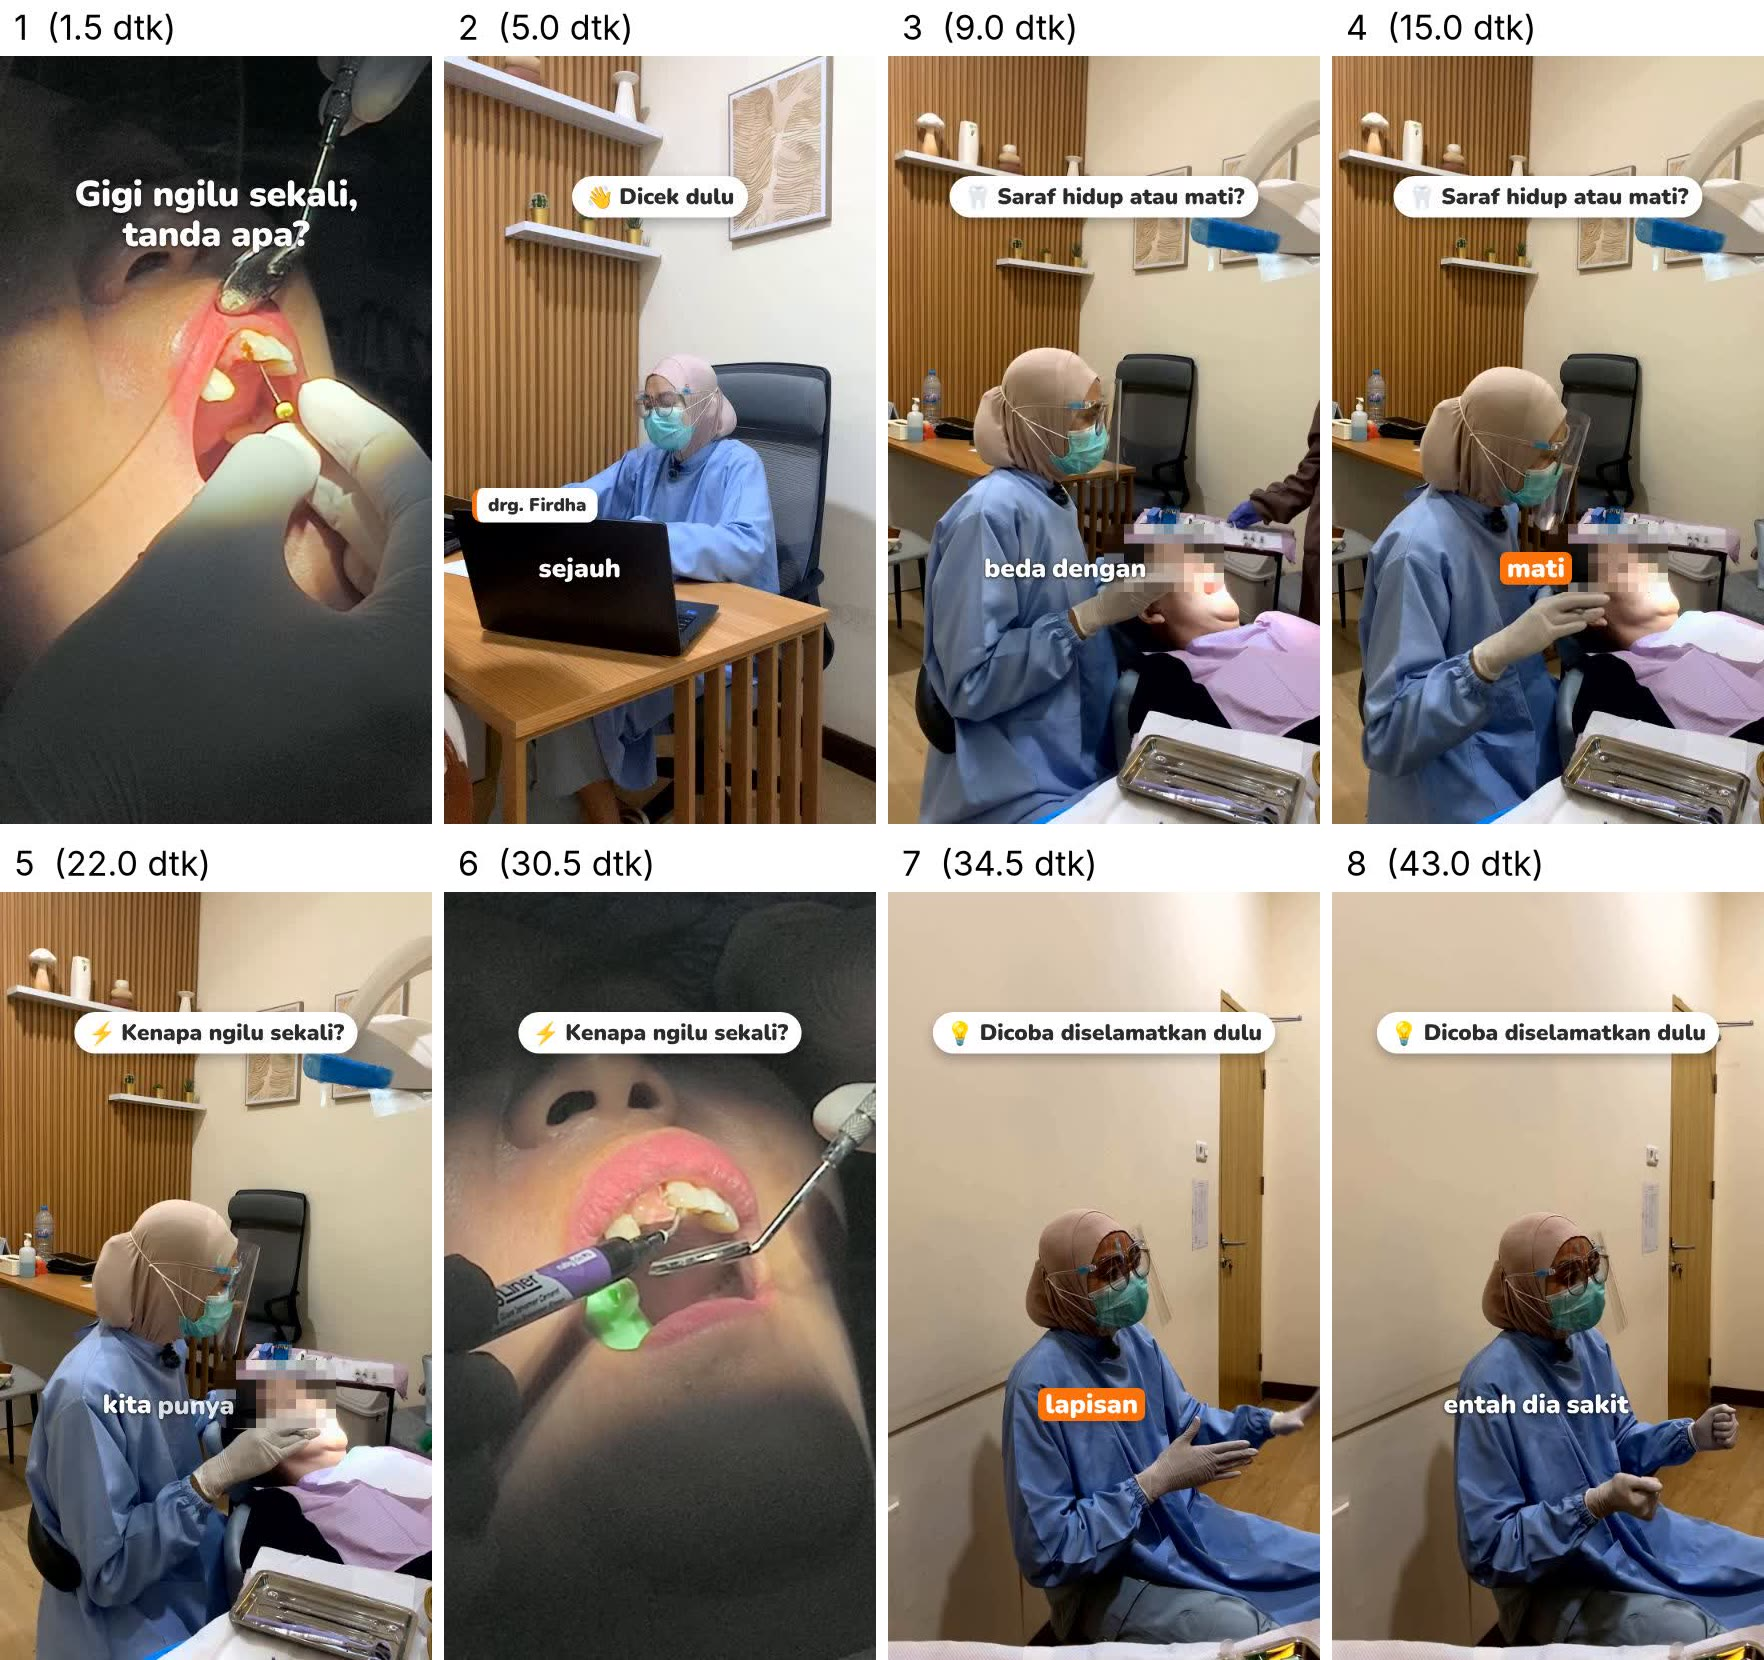
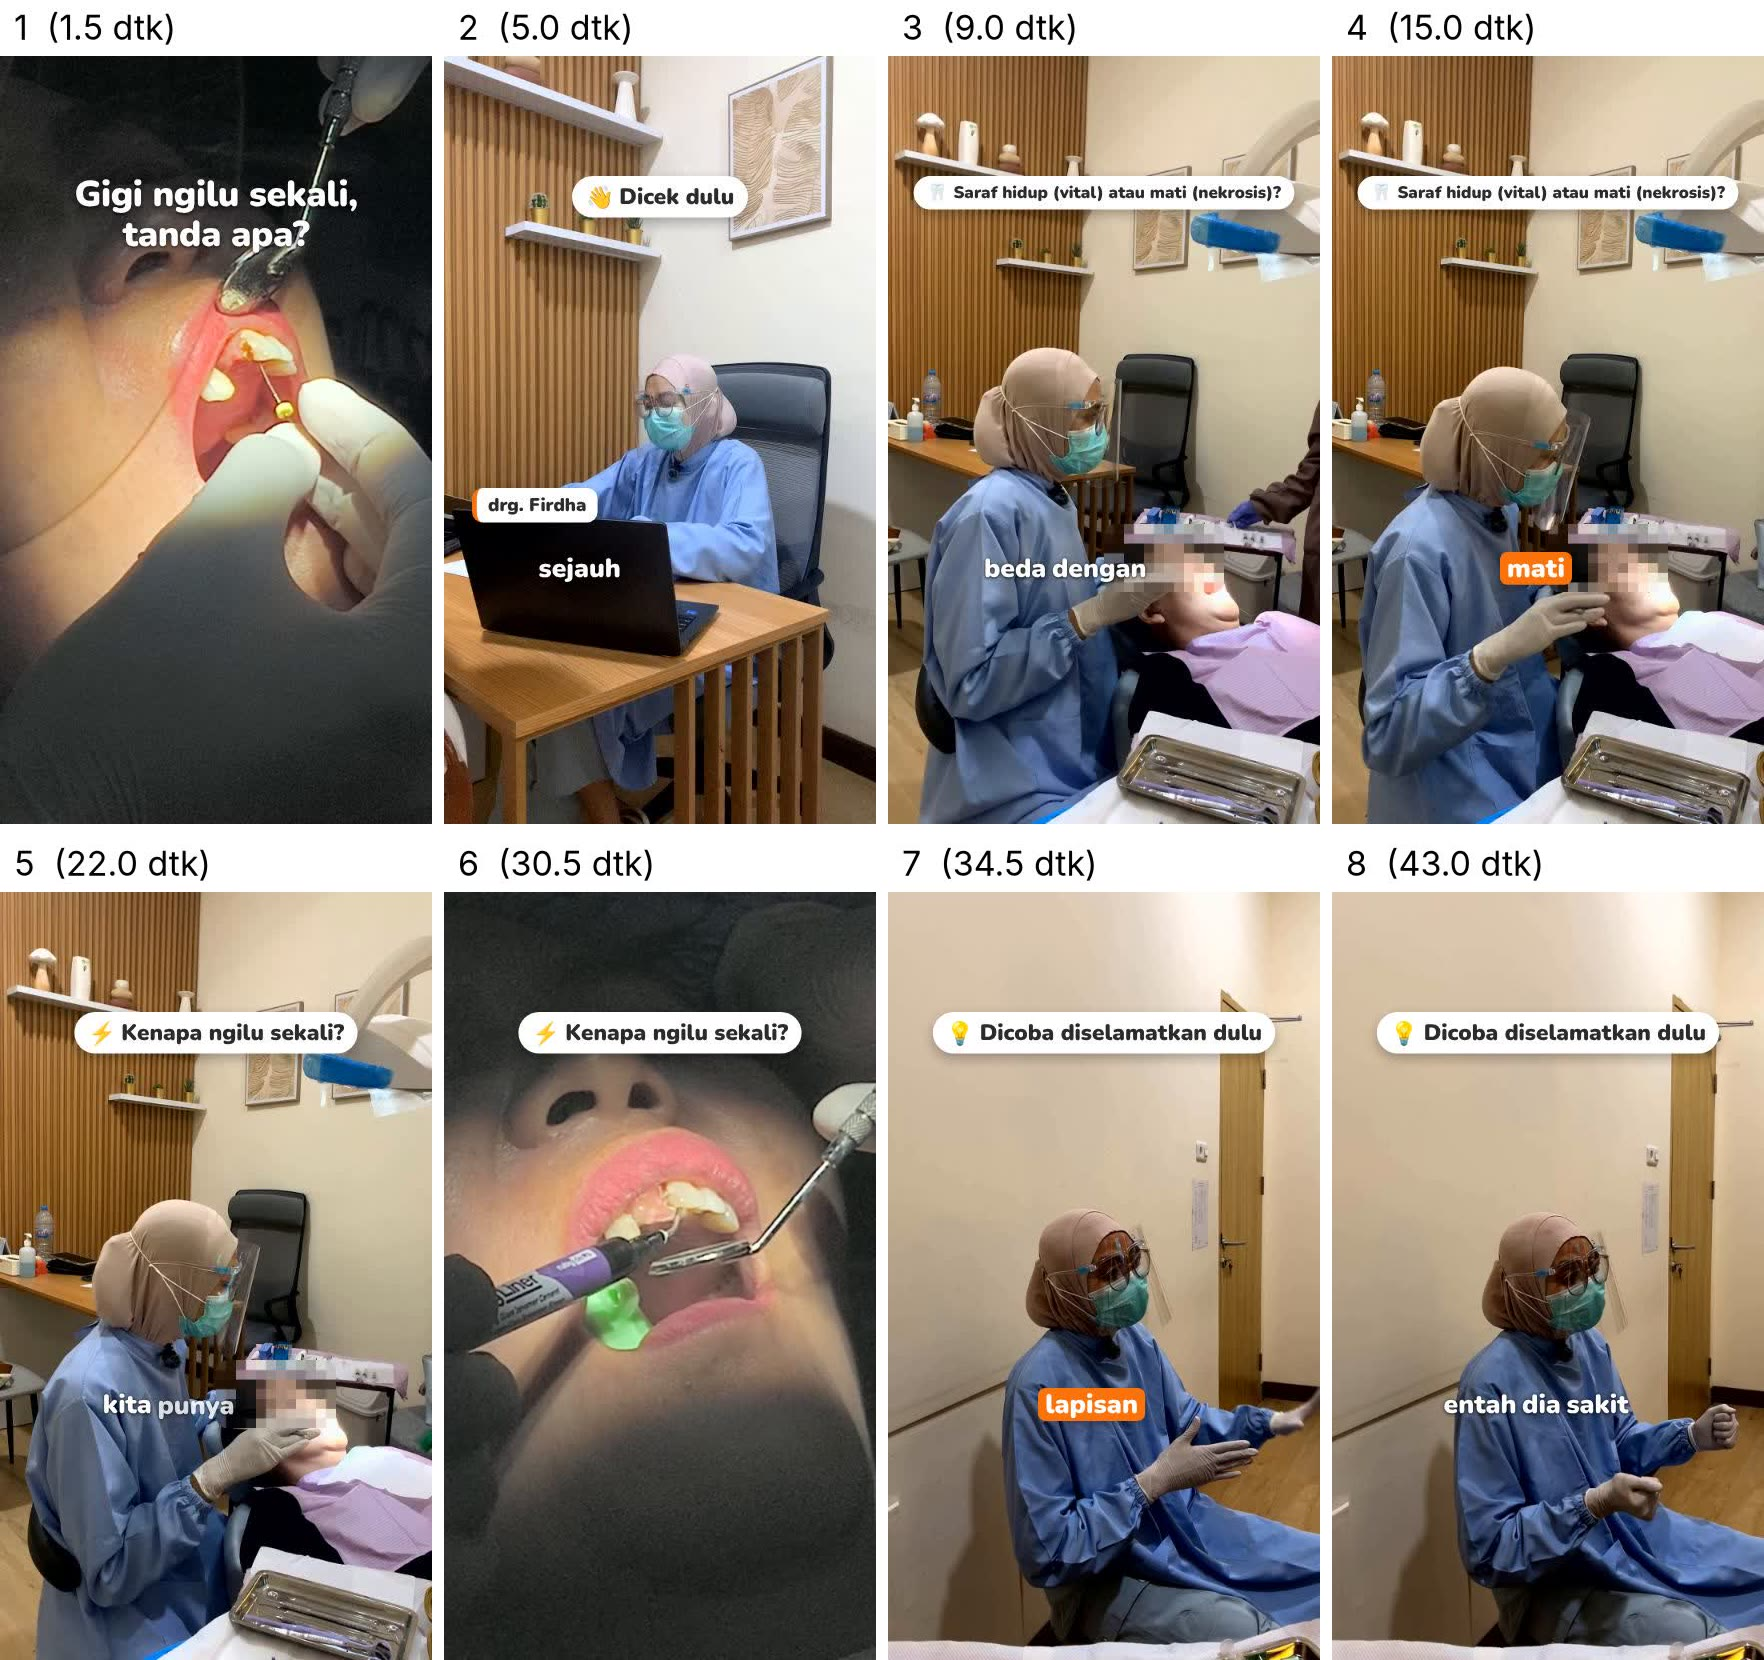
Firdha: label pill 'Saraf hidup (vital) atau mati (nekrosis)?' (koreksi Dir), papan V1
Claude-Session: https://claude.ai/code/session_016b8dWFV4j8YH2mAWRFcYJE

Changed region(s): [[0.4989, 0.0922, 0.9977, 0.1536]]

diff --git a/upg-video-projects/firdha-ngilu-sekali/src/timeline.js b/upg-video-projects/firdha-ngilu-sekali/src/timeline.js
@@ -1,7 +1,7 @@
 // DIBUAT OTOMATIS oleh edukasi/scripts/build_timeline.py dari edit.json — jangan diedit manual.
 export const CUTS = [{"clip": "VID_20261126_140712", "in": 1.0, "dur": 3.0, "start": 0.0, "fx": 540, "fy": 700, "tx": 540, "ty": 780, "scale": 1.0, "flash": false, "blur": [], "vol": 0.25}, {"clip": "IMG_1389", "in": 6.4, "dur": 5.32, "start": 3.0, "fx": 540, "fy": 700, "tx": 540, "ty": 780, "scale": 1.0, "flash": false, "blur": [], "vol": 1.0}, {"clip": "IMG_1401", "in": 3.2, "dur": 9.75, "start": 8.32, "fx": 540, "fy": 700, "tx": 540, "ty": 780, "scale": 1.0, "flash": false, "blur": [], "vol": 1.0}, {"clip": "IMG_1401", "in": 12.95, "dur": 10.29, "start": 18.07, "fx": 540, "fy": 700, "tx": 540, "ty": 780, "scale": 1.0, "flash": false, "blur": [], "vol": 1.0}, {"clip": "VID_20261126_150412", "in": 3.0, "dur": 3.0, "start": 28.36, "fx": 540, "fy": 700, "tx": 540, "ty": 780, "scale": 1.0, "flash": false, "blur": [], "vol": 0.25}, {"clip": "IMG_9882", "in": 17.48, "dur": 5.44, "start": 31.36, "fx": 540, "fy": 700, "tx": 540, "ty": 780, "scale": 1.0, "flash": false, "blur": [], "vol": 1.0}, {"clip": "IMG_9882", "in": 22.92, "dur": 10.62, "start": 36.8, "fx": 540, "fy": 700, "tx": 540, "ty": 780, "scale": 1.0, "flash": false, "blur": [], "vol": 1.0}];
 export const CAPTIONS = [{"from": 3.1, "to": 4.46, "words": [{"text": "bagaimana", "at": 3.1}, {"text": "ada", "at": 4.3}]}, {"from": 4.46, "to": 4.88, "words": [{"text": "keluhan", "at": 4.46, "hl": true}]}, {"from": 4.88, "to": 5.54, "words": [{"text": "sejauh", "at": 4.88}, {"text": "ini", "at": 5.2}, {"text": "dengan", "at": 5.28}]}, {"from": 5.54, "to": 6.42, "words": [{"text": "giginya", "at": 5.54}]}, {"from": 6.42, "to": 8.65, "words": [{"text": "yang", "at": 6.42}, {"text": "sudah", "at": 7.48}, {"text": "dirawat?", "at": 7.74}]}, {"from": 8.44, "to": 9.46, "words": [{"text": "beda", "at": 8.44}, {"text": "dengan", "at": 8.68}, {"text": "gigi", "at": 9.14}]}, {"from": 9.46, "to": 10.2, "words": [{"text": "sebelahnya", "at": 9.46}]}, {"from": 10.2, "to": 11.4, "words": [{"text": "ada", "at": 10.2}, {"text": "yang", "at": 10.36}, {"text": "masih", "at": 10.46}]}, {"from": 11.4, "to": 12.08, "words": [{"text": "aktif", "at": 11.4, "hl": true}]}, {"from": 12.08, "to": 12.74, "words": [{"text": "sarafnya", "at": 12.08}]}, {"from": 12.74, "to": 13.3, "words": [{"text": "ada", "at": 12.74}, {"text": "yang", "at": 12.92}, {"text": "memang", "at": 13.08}]}, {"from": 13.3, "to": 13.7, "words": [{"text": "sudah", "at": 13.3}]}, {"from": 13.7, "to": 14.28, "words": [{"text": "nekrosis", "at": 13.7, "hl": true}]}, {"from": 14.28, "to": 14.44, "words": [{"text": "atau", "at": 14.28}]}, {"from": 14.44, "to": 15.42, "words": [{"text": "mati", "at": 14.44, "hl": true}]}, {"from": 15.42, "to": 16.4, "words": [{"text": "jadi", "at": 15.42}, {"text": "kalau", "at": 15.56}, {"text": "sakitnya", "at": 16.0}]}, {"from": 16.4, "to": 16.94, "words": [{"text": "ada", "at": 16.4}, {"text": "kita", "at": 16.52}, {"text": "rasa", "at": 16.74}]}, {"from": 16.94, "to": 18.37, "words": [{"text": "tapi", "at": 16.94}, {"text": "sedikit-sedikit", "at": 17.26}]}, {"from": 18.2, "to": 19.0, "words": [{"text": "nah", "at": 18.2}, {"text": "kalau", "at": 18.28}, {"text": "ini", "at": 18.48}]}, {"from": 19.0, "to": 20.0, "words": [{"text": "hampir", "at": 19.0}, {"text": "secara", "at": 19.66}]}, {"from": 20.0, "to": 21.4, "words": [{"text": "keseluruhan", "at": 20.0}, {"text": "masih", "at": 20.56}]}, {"from": 21.4, "to": 21.68, "words": [{"text": "vital", "at": 21.4, "hl": true}]}, {"from": 21.68, "to": 23.64, "words": [{"text": "kita", "at": 21.68}, {"text": "punya", "at": 21.96}, {"text": "saraf", "at": 22.52}]}, {"from": 23.64, "to": 23.7, "words": [{"text": "jadi", "at": 23.64}]}, {"from": 23.7, "to": 24.16, "words": [{"text": "ngilu", "at": 23.7, "hl": true}]}, {"from": 24.16, "to": 24.56, "words": [{"text": "sekali", "at": 24.16}]}, {"from": 24.56, "to": 24.58, "words": [{"text": "nah", "at": 24.56}]}, {"from": 24.58, "to": 24.72, "words": [{"text": "kalau", "at": 24.58}]}, {"from": 24.72, "to": 24.98, "words": [{"text": "ngilu", "at": 24.72, "hl": true}]}, {"from": 24.98, "to": 25.12, "words": [{"text": "sekali", "at": 24.98}]}, {"from": 25.12, "to": 26.14, "words": [{"text": "itu", "at": 25.12}, {"text": "tandanya", "at": 25.3}, {"text": "dia", "at": 25.6}]}, {"from": 26.14, "to": 26.6, "words": [{"text": "mendekati", "at": 26.14}]}, {"from": 26.6, "to": 28.27, "words": [{"text": "saluran", "at": 26.6, "hl": true}, {"text": "akar", "at": 27.22, "hl": true}]}, {"from": 31.5, "to": 32.46, "words": [{"text": "cuman", "at": 31.5}, {"text": "itu", "at": 32.02}, {"text": "tetap", "at": 32.22}]}, {"from": 32.46, "to": 33.36, "words": [{"text": "saya", "at": 32.46}, {"text": "bersihkan", "at": 32.68}]}, {"from": 33.36, "to": 33.96, "words": [{"text": "dan", "at": 33.36}, {"text": "tetap", "at": 33.56}, {"text": "bisa", "at": 33.78}]}, {"from": 33.96, "to": 34.24, "words": [{"text": "saya", "at": 33.96}, {"text": "kasih", "at": 34.1}]}, {"from": 34.24, "to": 34.76, "words": [{"text": "lapisan", "at": 34.24, "hl": true}]}, {"from": 34.76, "to": 35.32, "words": [{"text": "supaya", "at": 34.76}, {"text": "dia", "at": 35.1}]}, {"from": 35.32, "to": 35.8, "words": [{"text": "regenerasi", "at": 35.32, "hl": true}]}, {"from": 35.8, "to": 37.13, "words": [{"text": "kita", "at": 35.8}, {"text": "punya", "at": 36.06}, {"text": "sel", "at": 36.32}]}, {"from": 37.2, "to": 39.26, "words": [{"text": "tapi", "at": 37.2}, {"text": "kalau", "at": 37.44}, {"text": "ternyata", "at": 37.76}]}, {"from": 39.34, "to": 40.28, "words": [{"text": "regenerasinya", "at": 39.34}, {"text": "tidak", "at": 40.04}]}, {"from": 40.28, "to": 40.9, "words": [{"text": "berhasil", "at": 40.28}]}, {"from": 40.9, "to": 41.38, "words": [{"text": "itu", "at": 40.9}, {"text": "nanti", "at": 41.08}, {"text": "dia", "at": 41.2}]}, {"from": 41.38, "to": 42.14, "words": [{"text": "kasih", "at": 41.38}, {"text": "tanda", "at": 41.62}]}, {"from": 42.14, "to": 43.28, "words": [{"text": "entah", "at": 42.14}, {"text": "dia", "at": 42.42}, {"text": "sakit", "at": 42.64}]}, {"from": 43.28, "to": 43.86, "words": [{"text": "atau", "at": 43.28}]}, {"from": 43.86, "to": 44.34, "words": [{"text": "ngilu", "at": 43.86, "hl": true}]}, {"from": 44.34, "to": 45.24, "words": [{"text": "sekali", "at": 44.34}, {"text": "kita", "at": 44.56}, {"text": "rasa", "at": 44.82}]}, {"from": 45.24, "to": 45.8, "words": [{"text": "dan", "at": 45.24}, {"text": "itu", "at": 45.34}, {"text": "berarti", "at": 45.46}]}, {"from": 45.8, "to": 46.38, "words": [{"text": "gigi", "at": 45.8}, {"text": "ini", "at": 46.06}, {"text": "harus", "at": 46.16}]}, {"from": 46.38, "to": 46.76, "words": [{"text": "dirawat", "at": 46.38}]}, {"from": 46.76, "to": 47.77, "words": [{"text": "saluran", "at": 46.76, "hl": true}, {"text": "akar", "at": 47.12, "hl": true}]}];
-export const TITLES = [{"kind": "hook", "text": "Gigi ngilu sekali,\ntanda apa?", "from": 0.05, "to": 3.0, "y": 300, "size": 90}, {"kind": "pill", "emoji": "👋", "text": "Dicek dulu", "from": 3.0, "to": 8.32, "y": 300}, {"kind": "pill", "emoji": "🦷", "text": "Saraf hidup atau mati?", "from": 8.32, "to": 18.07, "y": 300}, {"kind": "pill", "emoji": "⚡", "text": "Kenapa ngilu sekali?", "from": 18.07, "to": 31.36, "y": 300}, {"kind": "pill", "emoji": "💡", "text": "Dicoba diselamatkan dulu", "from": 31.36, "to": 47.42, "y": 300}];
+export const TITLES = [{"kind": "hook", "text": "Gigi ngilu sekali,\ntanda apa?", "from": 0.05, "to": 3.0, "y": 300, "size": 90}, {"kind": "pill", "emoji": "👋", "text": "Dicek dulu", "from": 3.0, "to": 8.32, "y": 300}, {"kind": "pill", "emoji": "🦷", "text": "Saraf hidup (vital) atau mati (nekrosis)?", "from": 8.32, "to": 18.07, "y": 300, "size": 42}, {"kind": "pill", "emoji": "⚡", "text": "Kenapa ngilu sekali?", "from": 18.07, "to": 31.36, "y": 300}, {"kind": "pill", "emoji": "💡", "text": "Dicoba diselamatkan dulu", "from": 31.36, "to": 47.42, "y": 300}];
 export const STICKERS = [];
 export const ZOOMS = [];
 export const CARDS = [];

diff --git a/upg-video-projects/firdha-ngilu-sekali/rancangan-V1.md b/upg-video-projects/firdha-ngilu-sekali/rancangan-V1.md
@@ -11,7 +11,7 @@ Tanpa narasi AI, tanpa musik. Ucapan asli drg. Firdha per kalimat utuh, caption 
 |---|---|---|---|
 | 1 | close-up tindakan (koreksi warna) | Hook: Gigi ngilu sekali, tanda apa? | (bunyi alat) |
 | 2 | konsultasi + name tag | 👋 Dicek dulu | "Bagaimana, ada keluhan sejauh ini dengan giginya? Yang sudah dirawat?" |
-| 3 | dokter bekerja | 🦷 Saraf hidup atau mati? | "...beda dengan gigi sebelahnya, ada yang masih aktif sarafnya, ada yang memang sudah nekrosis atau mati." |
+| 3 | dokter bekerja | 🦷 Saraf hidup (vital) atau mati (nekrosis)? | "...beda dengan gigi sebelahnya, ada yang masih aktif sarafnya, ada yang memang sudah nekrosis atau mati." |
 | 4 | dokter bekerja | ⚡ Kenapa ngilu sekali? | "Kalau ini hampir secara keseluruhan masih vital sarafnya. Jadi ngilu sekali. Nah, kalau ngilu sekali itu tandanya dia mendekati saluran akar." |
 | 5 | dokter menjelaskan di kursi | 💡 Dicoba diselamatkan dulu | "Tetap saya bersihkan, dan tetap bisa dikasih lapisan, supaya dia regenerasi selnya. Tapi kalau ternyata regenerasinya tidak berhasil... sakit, atau ngilu sekali... itu berarti gigi ini harus dirawat saluran akar." |
 | 6 | penutup standar | — | — |
